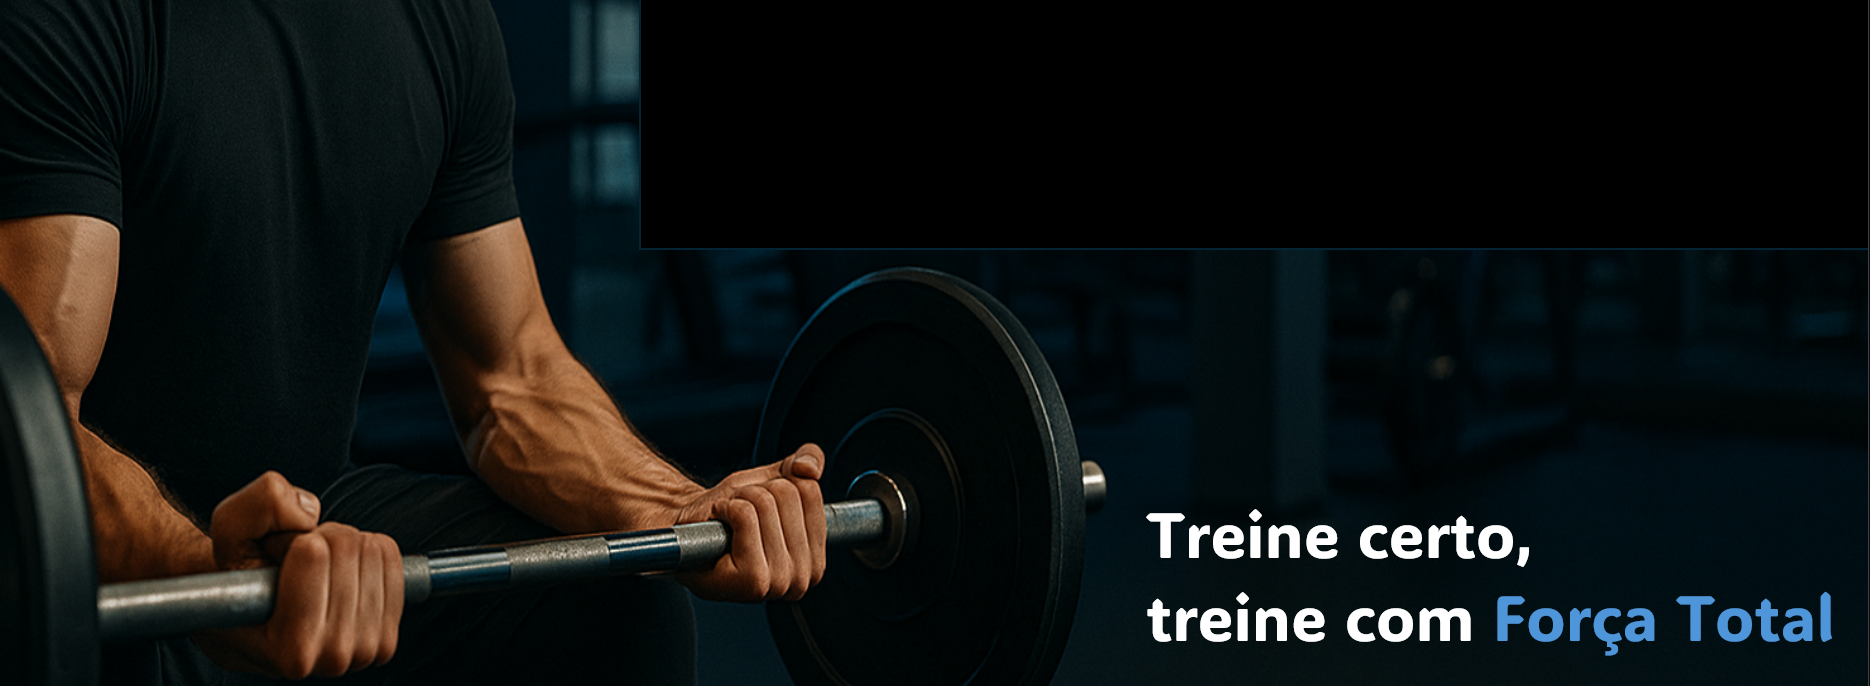
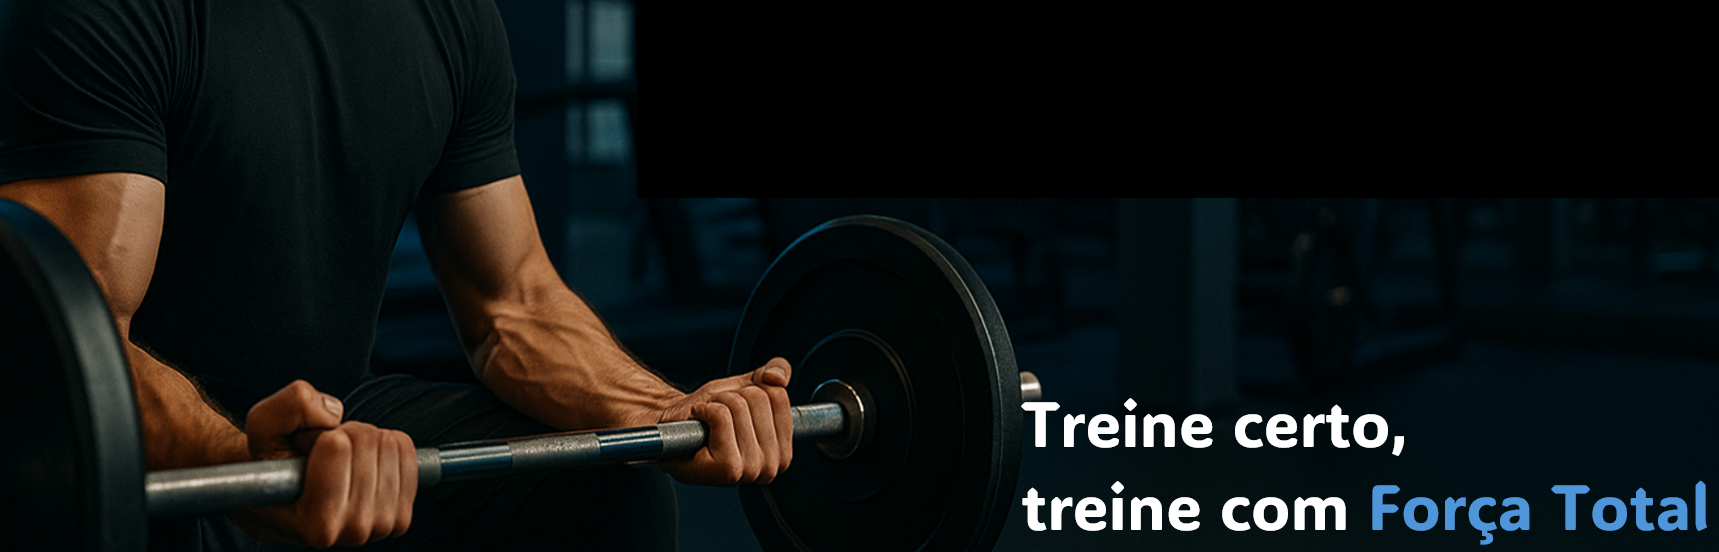
animações

diff --git a/ForçaTotal/css/style.css b/ForçaTotal/css/style.css
@@ -65,7 +65,7 @@ header {
 }
 
 .header-spacer {
-    height: 74px;
+    height: 3.0rem;
 }
 
 section {
@@ -87,6 +87,13 @@ section {
 
 .variacao {
     background-color: rgba(99, 173, 219, 0.262);
+    display: flex;
+    align-items: center;
+    justify-content: space-between;
+    gap: 1.5rem;
+    width: 80%;
+    flex-direction: row-reverse;
+    
 }
 
 .exercise-section, .progress-section, .health-section, 
@@ -110,10 +117,23 @@ section {
 }
 
 .section-image {
+    display: flex;
     max-width: 30%;
     height: 30%;
     border-radius: 100px;
     box-shadow: 0 4px 6px rgba(0, 0, 0, 0.1);
+}
+
+.img-banner {
+    display: flex;
+    width: 100%;
+    max-width: 2000px;
+    height: 100%;
+    color: white;
+    border-radius: 10px;
+    width: 100%;
+    box-shadow: 0 4px 6px rgba(0, 0, 0, 0.1);
+    margin: auto;
 }
 
 .section-video, .video-wrapper {
@@ -176,6 +196,7 @@ section {
     transition: transform 0.2s, box-shadow 0.2s;
     align-items: center;
     justify-content: center;
+    display: flex;
 }
 
 .clicavel-section, .clicavel-quadrado-section:hover {
@@ -183,9 +204,9 @@ section {
     box-shadow: 0 4px 16px rgba(28, 65, 165, 0.15);
 }
 
-.clicavel-section, .clicavel-quadrado-section h1 {
+.clicavel-section,h1 {
     font-size: 1em;
-    margin: 0;
+    margin: auto;
     display: flex;
     justify-content: center;
 }
@@ -193,6 +214,7 @@ section {
 .clicavel-quadrado-section {
 border-radius: 10px;
 }
+
 
 h1 {
     font-size: 2.5rem;
@@ -275,6 +297,15 @@ footer {
     align-items: center;
     flex-wrap: wrap;
     gap: 1rem;
+    width: 100%;
+}
+
+.footer-container > *:first-child {
+    margin-right: auto;
+}
+
+.footer-container > *:last-child {
+    margin-left: auto;
 }
 
 .footer-nav {
@@ -305,7 +336,7 @@ footer {
     }
 
     .header-spacer {
-        height: 3rem;
+        height: 2rem;
     }
 
     .exercise-section, .progress-section, .health-section,
@@ -353,7 +384,7 @@ footer {
     }
 
     .btn {
-    padding: 0.75rem 1.5rem;
+    padding: 0.5rem 1.5rem;
     font-size: 0.9rem;
     background-color: #000;
     color: white;
@@ -361,7 +392,7 @@ footer {
     border-radius: 10px;
     cursor: pointer;
     transition: background-color 0.3s, transform 0.2s;
-    margin: 0.5rem;
+    margin: 0.1rem;
 }
 }
 
@@ -388,7 +419,7 @@ footer {
     }
 
     .header-spacer {
-        height: 4.0rem;
+        height: 5.0rem;
     }
 
     section {
@@ -461,5 +492,6 @@ footer {
         justify-content: flex-end !important;
         align-items: flex-end !important;
     }
+    
 }
    
